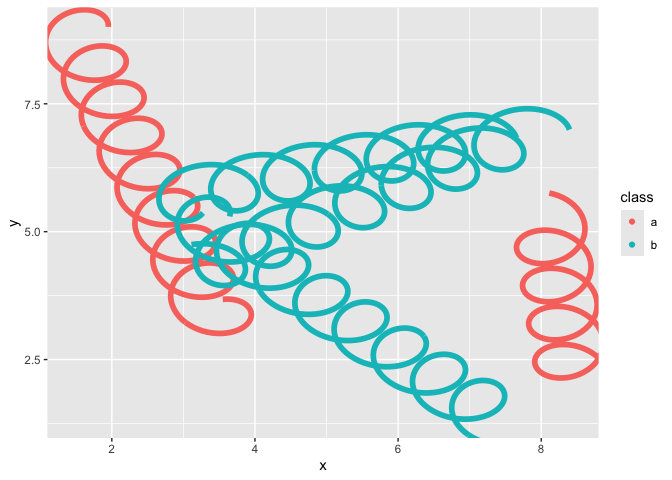
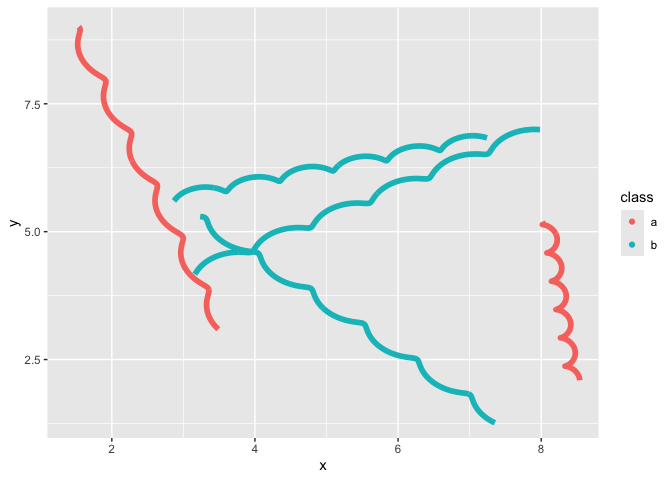
removing scalar defaults for tension and diameter

Changed region(s): [[0.0625, 0.0, 0.875, 0.9375], [0.75, 0.375, 0.9062, 0.8125], [0.1562, 0.0312, 0.1875, 0.0625]]

diff --git a/README.md b/README.md
@@ -366,9 +366,7 @@ GeomSpring <- ggproto("GeomSpring", Geom,
       colour = "black",
       linewidth = 0.5,
       linetype = 1L,
-      alpha = NA,
-      diameter = 1,
-      tension = 0.75
+      alpha = NA
     )
 )
 ```
@@ -779,6 +777,34 @@ time, sequentially on the position of the moving point, and looping
 until nothing changes. Not sure how to program this with `gganimate`.
 
 ## Least squares regression
+
+Using tension and diameter defaults
+
+``` r
+set.seed(1234)
+N <- 10
+df <- tibble(
+  x = runif(N, 1, 10),
+  y = runif(N, 1, 10)
+)
+
+ggplot(df) +
+  aes(x = x, y = y,
+      xend = mean(x),
+      yend = mean(y)) +
+  geom_point(size = 5, color = "red") +
+  geom_spring(color = "blue",
+              linewidth = 1.2) +
+  geom_point(aes(x = mean(x), y = mean(y)), 
+             size = 7,
+             shape = 15,
+             color = "black") +
+  scale_x_continuous(breaks = 1:10) +
+  scale_y_continuous(breaks = 1:10) +
+  theme_minimal(base_size = 15) 
+```
+
+<img src="man/figures/README-unnamed-chunk-8-1.png" width="100%" />
 
 ## Related
 
